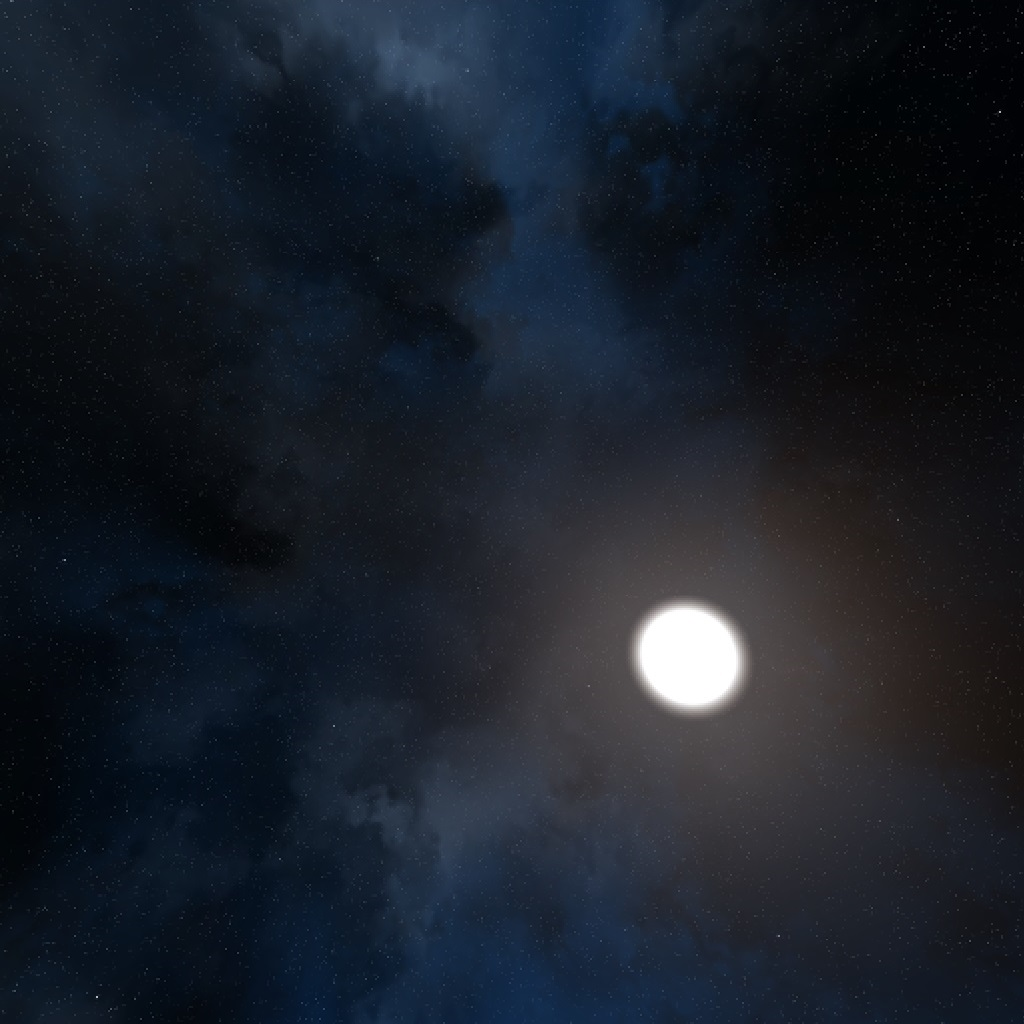
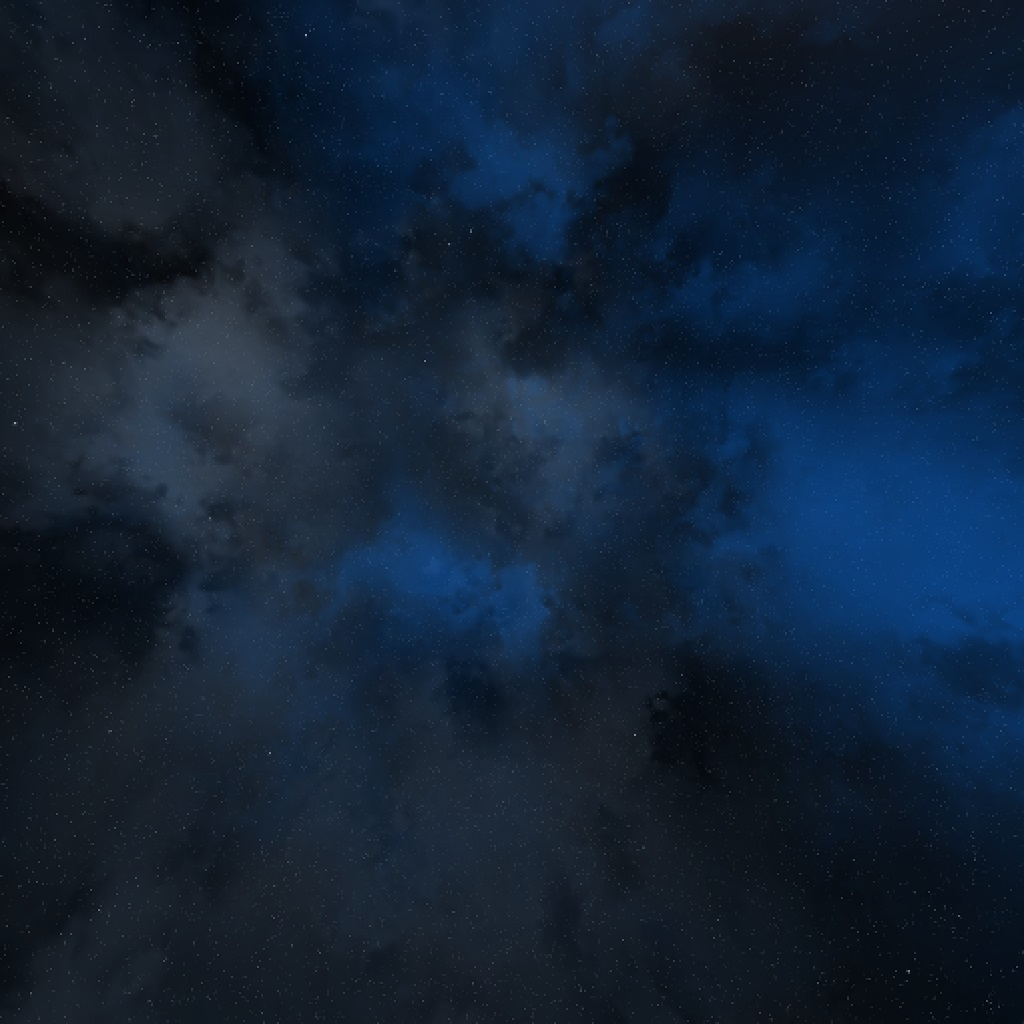
updated skybox

diff --git a/actions/ZoomCameraAction.java b/actions/ZoomCameraAction.java
@@ -25,14 +25,14 @@ public class ZoomCameraAction extends AbstractInputAction
 		if (e.getValue() > -.2 && e.getValue() < .2){
 			return;  // deadzone
 		}else if(e.getComponent().toString().equals("C")){ // Zoom In
-			c = (game.getEngine().getRenderSystem()).getViewport("RIGHT").getCamera();
+			c = (game.getEngine().getRenderSystem()).getViewport("MAIN").getCamera();
 			fwdVector = c.getN();
 			oldPosition = c.getLocation();
 			fwdVector.mul(0.01f);
 			newPosition = oldPosition.add(fwdVector.x(), fwdVector.y(), fwdVector.z());
 			c.setLocation(newPosition);
 		}else if(e.getComponent().toString().equals("V")){ // Zoom Out
-			c = (game.getEngine().getRenderSystem()).getViewport("RIGHT").getCamera();
+			c = (game.getEngine().getRenderSystem()).getViewport("MAIN").getCamera();
 			fwdVector = c.getN();
 			oldPosition = c.getLocation();
 			fwdVector.mul(-0.01f);
